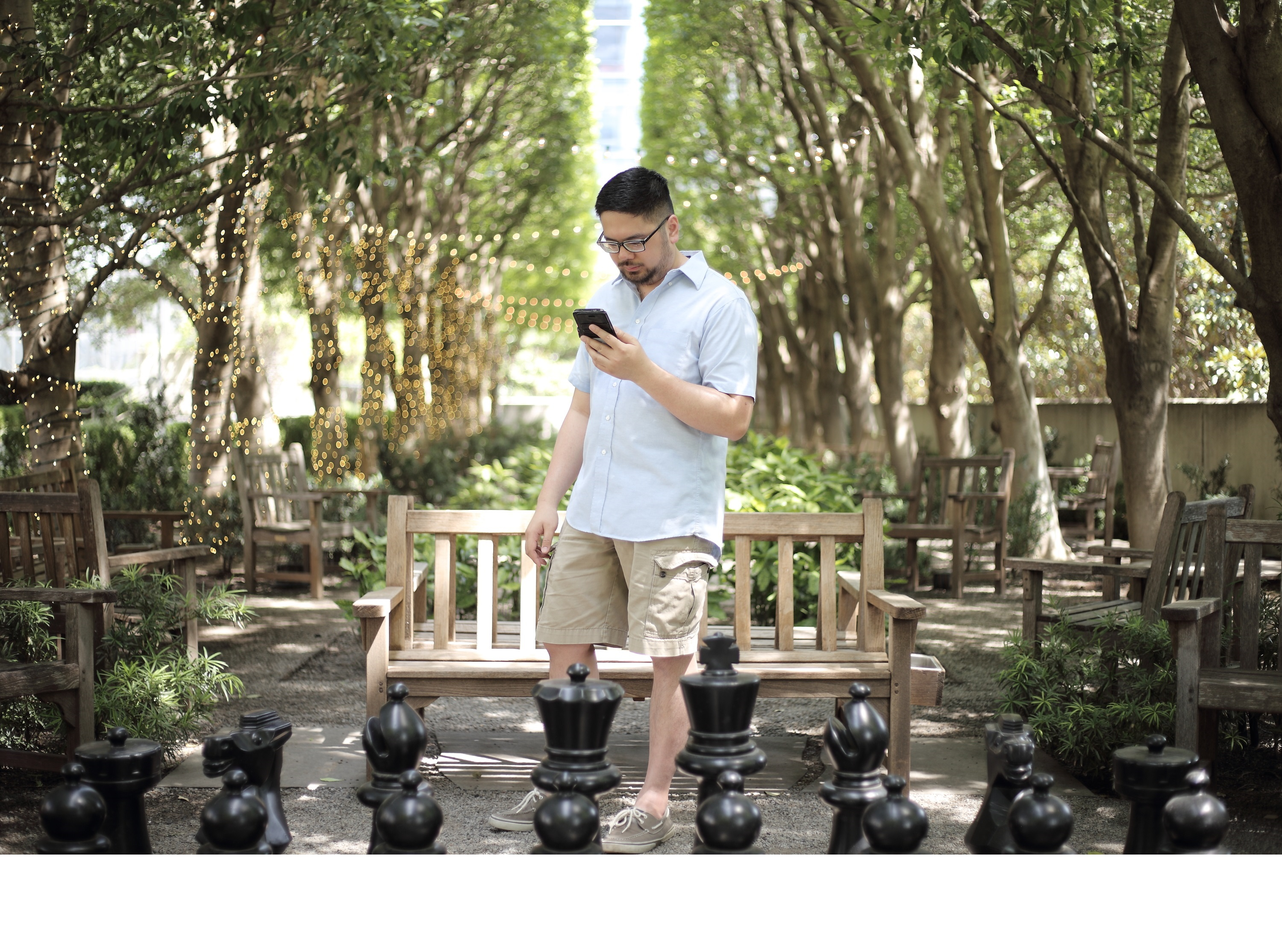
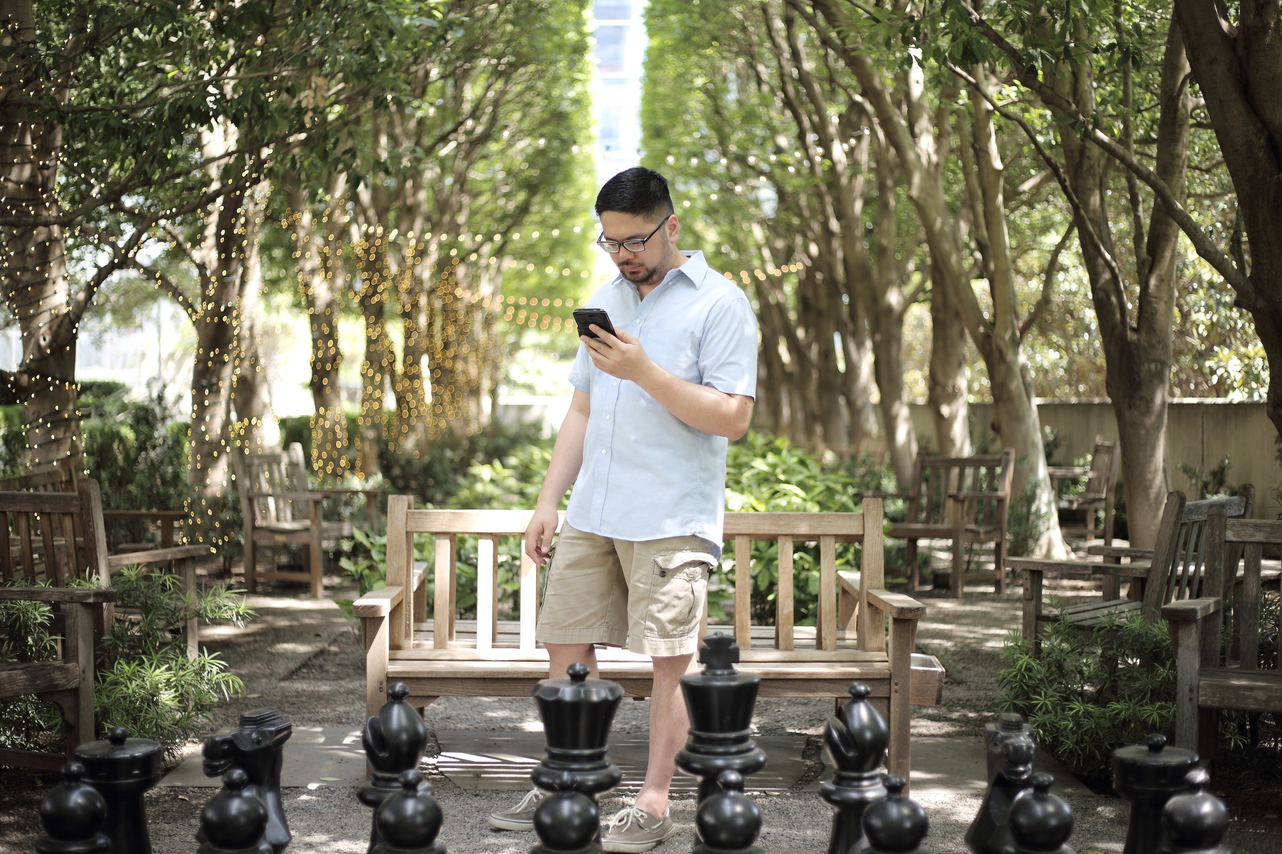
-

diff --git a/studio/photo/contact.html b/studio/photo/contact.html
@@ -114,7 +114,7 @@ Copyright &copy;<script>document.write(new Date().getFullYear());</script> All r
     <div class="hero-area d-flex align-items-center">
        
         <!-- Hero Thumbnail -->
-        <div class="hero-thumbnail equalize bg-img" style="background-image: url(img/bg-img/contact.jpg);"></div>
+        <div class="hero-thumbnail equalize bg-img" style="background-image: url(img/bg-new/v5.JPG);"></div>
         
         <!-- Hero Content -->
         <div class="hero-content equalize">
